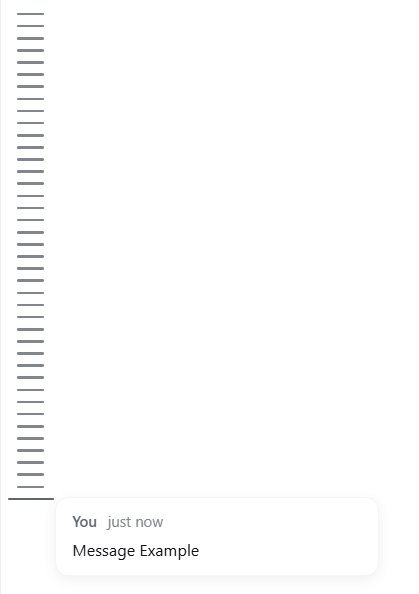
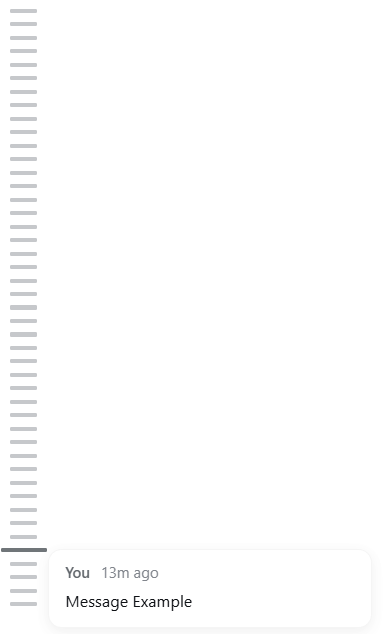
docs: rename screenshot1 -> screenshot, update references

Changed region(s): [[0.0, 0.0, 0.1149, 0.9697], [0.1723, 0.8485, 0.517, 0.9697]]

diff --git a/docs/screenshots/README.md b/docs/screenshots/README.md
@@ -4,7 +4,8 @@ Demo captures referenced from the READMEs (`docs/screenshots/`):
 
 | File | Content |
 |---|---|
-| `screenshot1.png` | The narrow message rail on the left of the chat (thin bars, one per message you sent) |
+| `screenshot.png` | The narrow message rail on the left of the chat (thin bars, one per message you sent) |
 | `screenshot2.png` | A bar hovered (longer/bolder) with its adaptive preview card |
+| `screenshot3.png` | A message example |
 
-（展示图目录：`screenshot1.png` 为轨道总览，`screenshot2.png` 为悬停预览；README / README.zh.md 的"展示图"章节已引用。）
+（展示图目录：`screenshot.png` 为轨道总览，`screenshot2.png` 为悬停预览，`screenshot3.png` 为消息示例；README / README.zh.md 的"展示图"章节已引用。）

diff --git a/README.md b/README.md
@@ -16,9 +16,7 @@
 
 | The message rail | Message example |
 |---|---|
-| ![The message rail](docs/screenshots/screenshot1.png) | ![Message example](docs/screenshots/screenshot3.png) |
-
-*`docs/screenshots/` is created empty on purpose — drop your captures in before publishing.*
+| ![The message rail](docs/screenshots/screenshot.png) | ![Message example](docs/screenshots/screenshot3.png) |
 
 ---
 

diff --git a/README.zh.md b/README.zh.md
@@ -16,7 +16,7 @@
 
 | 消息轨道 | 悬停预览（自适应） |
 |---|---|
-| ![消息轨道](docs/screenshots/screenshot1.png) | ![悬停预览](docs/screenshots/screenshot2.png) |
+| ![消息轨道](docs/screenshots/screenshot.png) | ![悬停预览](docs/screenshots/screenshot2.png) |
 
 ---
 
